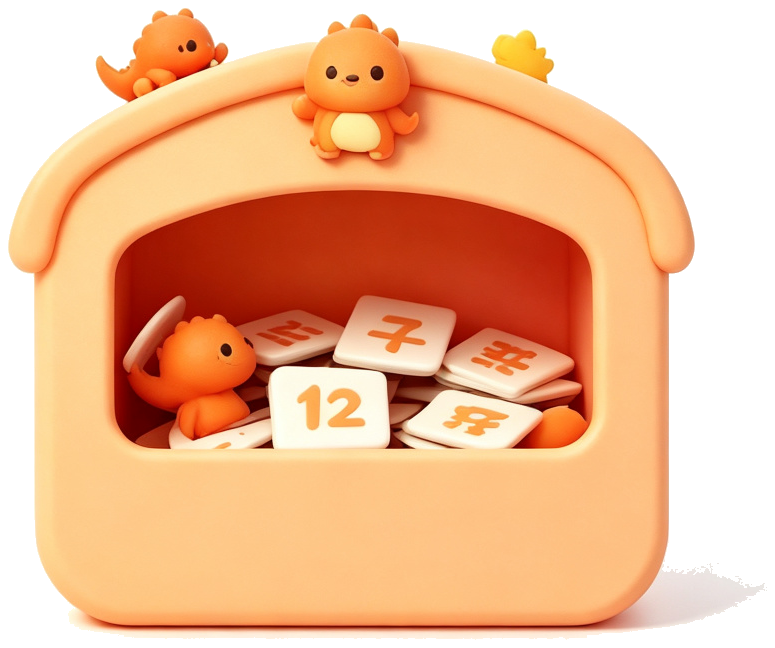
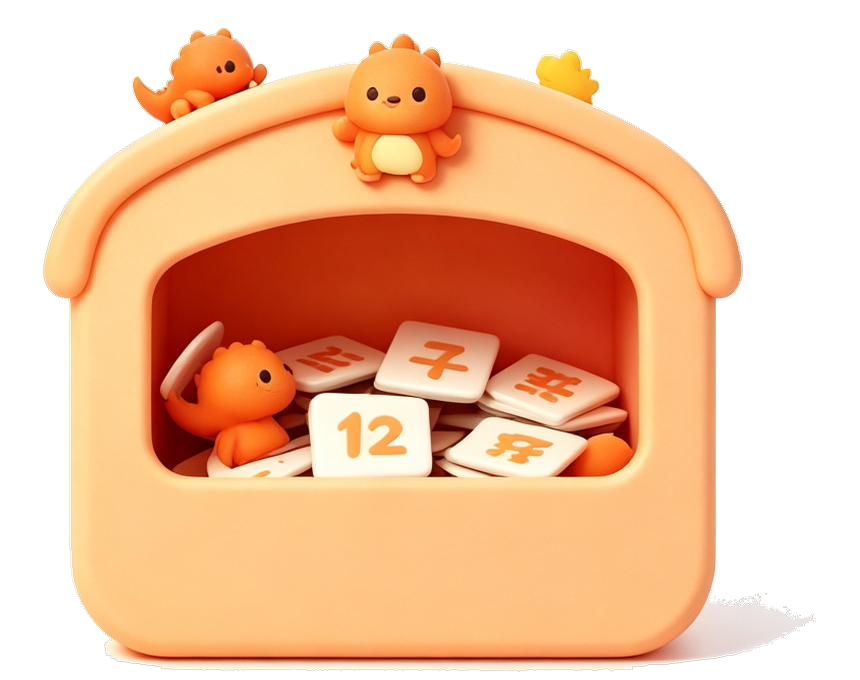
四张房子素材统一画布尺寸，房子等大贴底对齐
- normalize-houses.py：四张图统一 860x680 画布，房子等高贴底居中

diff --git a/scripts/normalize-houses.py b/scripts/normalize-houses.py
@@ -1,0 +1,23 @@
+from PIL import Image
+
+# 统一四张房子图到相同画布，房子缩放到等高、贴底居中
+CANVAS_W, CANVAS_H = 860, 680
+TARGET_H = 660
+
+def normalize(path):
+    im = Image.open(path).convert('RGBA')
+    # 按目标高度等比缩放
+    scale = TARGET_H / im.height
+    new_w = int(im.width * scale)
+    new_h = TARGET_H
+    im = im.resize((new_w, new_h), Image.LANCZOS)
+    # 放到统一画布，水平居中、贴底
+    canvas = Image.new('RGBA', (CANVAS_W, CANVAS_H), (0, 0, 0, 0))
+    x = (CANVAS_W - new_w) // 2
+    y = CANVAS_H - new_h
+    canvas.paste(im, (x, y), im)
+    canvas.save(path)
+    print('normalized', path, canvas.size)
+
+for i in [1, 2, 3, 4]:
+    normalize(f'public/warehouses/house-{i}.png')
